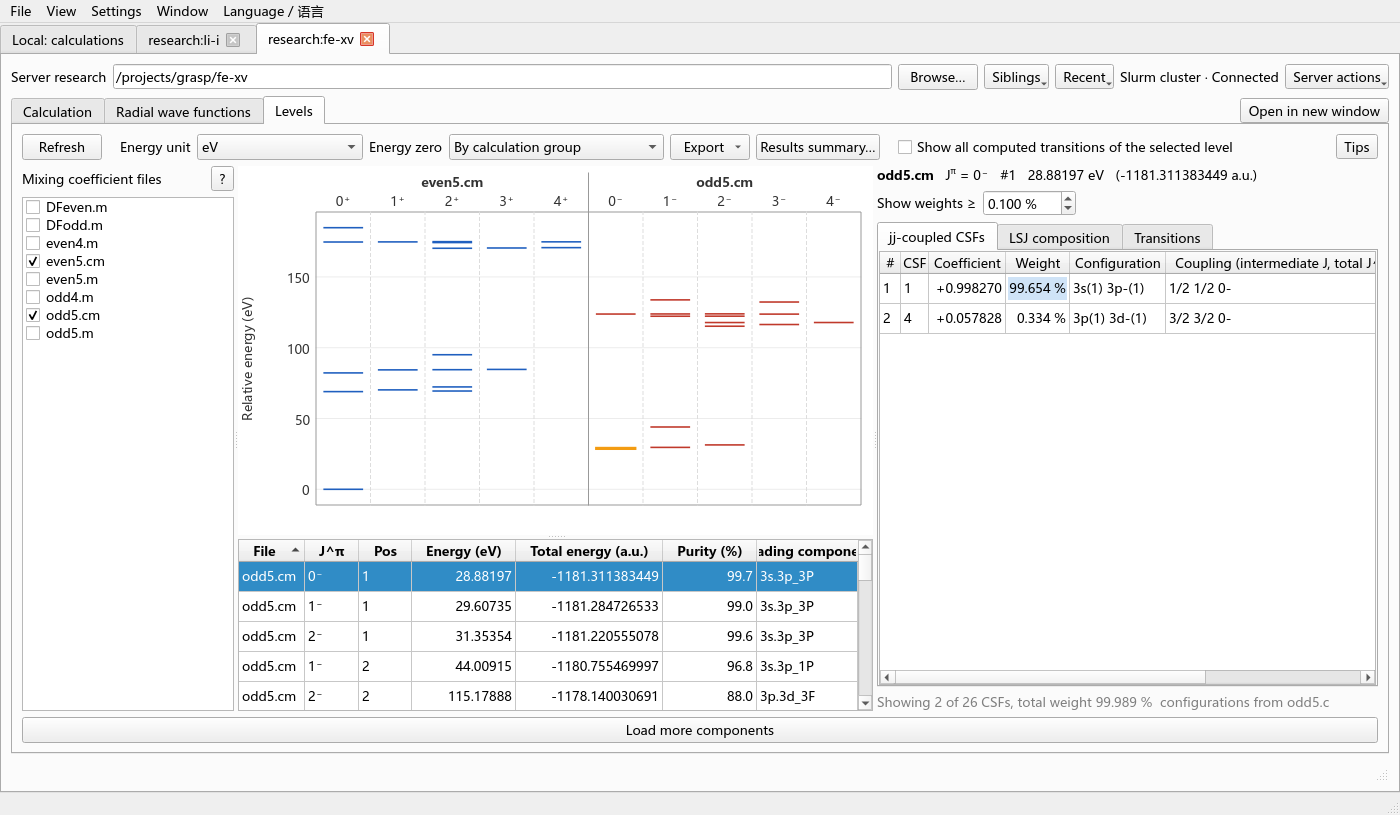
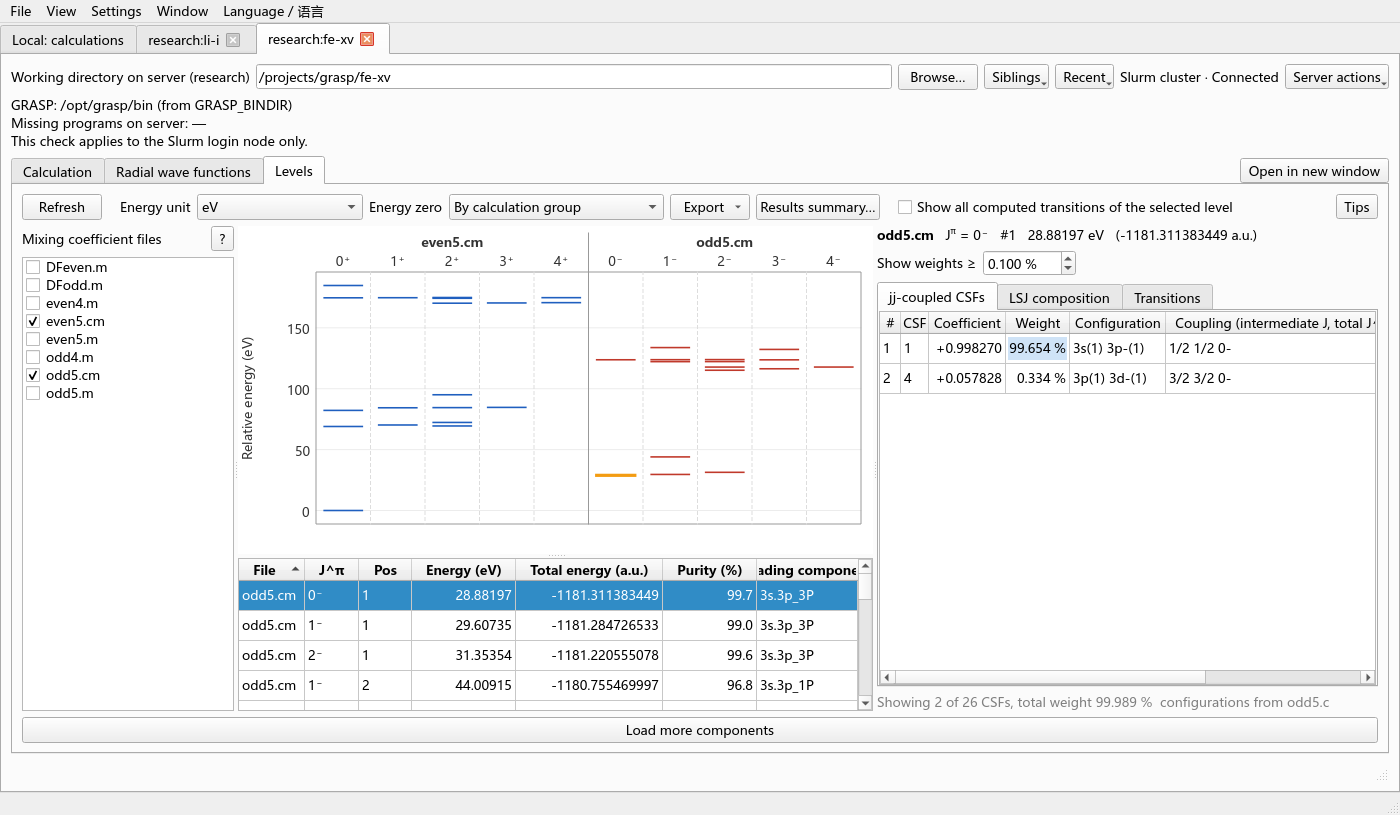
Align server working directory wording after rebase
- Reuse the protocol mutation set when cancelling old reads.
- Refresh bilingual screenshots and verify pending writes can finish.

diff --git a/remote_panel.py b/remote_panel.py
@@ -16,7 +16,7 @@ import grasp_config as config
 import grasp_install as install
 import grasp_core as core
 import grasp_mix as mix
-from grasp_remote import GRASP_CHECK
+from grasp_remote import GRASP_CHECK, MUTATIONS
 import grasp_ssh as ssh
 import grasp_summary as summary
 import grasp_trans as transitions
@@ -254,7 +254,7 @@ class BrowseServerDirectory(QDialog):
         layout.addWidget(self.status)
         row = QHBoxLayout()
         row.addStretch()
-        self.use = button("打开选定的工作目录", self.accept)
+        self.use = button("打开此工作目录", self.accept)
         row.addWidget(self.use)
         row.addWidget(button("取消", self.reject))
         layout.addLayout(row)
@@ -1642,7 +1642,6 @@ class RemoteViewer(QMainWindow):
 
 class RemoteWorkspace(QWidget):
     TABS = (("calc", "计算"), ("wfn", "径向波函数"), ("levels", "能级图"))
-    WRITE_REQUESTS = {"run", "stop", "clean_workdir", "clear_slurm_record", "create_workdir", "update_workdir"}
     push = Signal(object)
     draftChanged = Signal()
 
@@ -1723,7 +1722,7 @@ class RemoteWorkspace(QWidget):
                 callback(*values)
 
         request = self.source.submit(method, args, received, **options)
-        if pending and request is not None and method not in self.WRITE_REQUESTS:
+        if pending and request is not None and method not in MUTATIONS:
             self.read_requests.add(request)
         return request
 
@@ -1744,7 +1743,7 @@ class RemoteWorkspace(QWidget):
         self.label = T("服务器上的工作目录 {h}:{p}", h=self.client.host, p=self.directory)
         self.setWindowTitle(self.label)
         bar = QHBoxLayout()
-        name = QLabel(T("服务器 {h}", h=self.client.host))
+        name = QLabel(T("服务器上的工作目录（{h}）", h=self.client.host))
         name.setTextInteractionFlags(Qt.TextSelectableByMouse)
         bar.addWidget(name)
         self.build_directory_bar(bar)
@@ -1804,7 +1803,7 @@ class RemoteWorkspace(QWidget):
 
     def build_directory_bar(self, bar):
         self.directory_edit = QLineEdit(self.directory)
-        self.directory_edit.setAccessibleName(T("工作目录"))
+        self.directory_edit.setAccessibleName(T("服务器上的工作目录"))
         self.directory_edit.returnPressed.connect(lambda: self.request_directory(self.directory_edit.text()))
         self.browse_button = button("浏览…", self.browse_directory)
         self.siblings_button, self.recent_button = QToolButton(), QToolButton()
@@ -1898,7 +1897,7 @@ class RemoteWorkspace(QWidget):
             action.triggered.connect(lambda checked=False, directory=path: self.request_directory(directory))
         if paths:
             menu.addSeparator()
-        menu.addAction(T("清除此主机的最近目录")).triggered.connect(self.clear_recent)
+        menu.addAction(T("清除此主机最近的工作目录")).triggered.connect(self.clear_recent)
 
     def clear_recent(self):
         entries = [entry for entry in remote_recent_entries() if not self.recent_matches(entry[0], entry[2])]
@@ -2018,7 +2017,7 @@ class RemoteWorkspace(QWidget):
         creation = getattr(self.calc, "import_dialog", None)
         if not any(dialog.busy for dialog in self.transfer_dialogs) and not (creation and creation.busy):
             return True
-        prompt = (T("传输仍在进行，切换目录将取消传输。是否取消传输并切换？") if switching else
+        prompt = (T("切换工作目录将取消正在进行的传输。是否继续？") if switching else
                   T("传输仍在进行，关闭工作区将取消传输。是否取消并关闭？"))
         return QMessageBox.question(self, T("取消传输"), prompt,
                                     QMessageBox.Yes | QMessageBox.No, QMessageBox.No) == QMessageBox.Yes

diff --git a/tests/test_server_directory_switch.py b/tests/test_server_directory_switch.py
@@ -49,6 +49,8 @@ def test_typed_path_replaces_directory_in_place_and_cancels_old_reads(desk, qapp
     workspace.show_tab("wfn")
     viewer = workspace.open_view("levels")
     old_requests = dict(source.requests)
+    write_results = []
+    write_request = workspace.submit("update_workdir", dict(directory="/srv/a"), lambda *args: write_results.append(args))
     workspace.directory_edit.setText("bad")
     workspace.directory_edit.returnPressed.emit()
     method, args, received = source.pending.pop()
@@ -67,6 +69,9 @@ def test_typed_path_replaces_directory_in_place_and_cancels_old_reads(desk, qapp
     assert opened.source is source and source.parent() is opened and source.closes == source.reconnects == 0
     assert desk.workspaces.indexOf(opened) == 1 and desk.workspaces.indexOf(other) == 2
     assert workspace.closed and set(old_requests) <= source.cancelled and not viewer.isVisible()
+    assert write_request not in source.cancelled
+    source.respond("update_workdir", dict(revision="r2"), directory="/srv/a")
+    assert write_results == []
     for method, _, callback in old_requests.values():
         if method == "watch":
             callback(dict(text="old log", state=None), None)
@@ -83,6 +88,8 @@ def test_browser_siblings_recent_and_existing_tab(desk, monkeypatch):
     workspace = desk.open_remote_workspace(source, "/srv/a")
 
     def browse(dialog):
+        assert dialog.windowTitle() == "Browse working directory on server"
+        assert dialog.use.text() == "Open this working directory"
         source.respond("list_dir", listing("/srv/a"), directory="/srv/a")
         dialog.up.click()
         source.respond("list_dir", listing("/srv", "a", "b"), directory="/srv")
@@ -108,6 +115,7 @@ def test_browser_siblings_recent_and_existing_tab(desk, monkeypatch):
     existing = desk.open_remote_workspace(alias, "/srv/a")
     desk.workspaces.setCurrentWidget(current)
     current.load_recent()
+    assert current.recent_menu.actions()[-1].text() == "Clear recent working directories for this host"
     [item for item in current.recent_menu.actions() if item.text() == "/srv/a"][0].trigger()
     source.respond("list_dir", listing("/srv/a"), directory="/srv/a")
     assert desk.active_remote() is existing and not current.closed and current.directory_edit.text() == "/srv/c"

diff --git a/grasp_core.py b/grasp_core.py
@@ -1719,14 +1719,13 @@ No window is opened; from the sources, python3 grasp_config.py can be used inste
     "无法读取 {name} 的对称块：{error}": "Cannot read symmetry blocks from {name}: {error}",
     # 在服务器标签中切换工作目录
     "浏览服务器上的工作目录": "Browse working directory on server",
-    "打开选定的工作目录": "Open selected working directory",
     "同级": "Siblings",
-    "服务器 {h}": "Server {h}",
+    "服务器上的工作目录（{h}）": "Working directory on server ({h})",
     "读取中…": "Loading…",
     "只显示前 {n} 项": "Showing only the first {n} entries",
-    "清除此主机的最近目录": "Clear recent directories for this host",
-    "传输仍在进行，切换目录将取消传输。是否取消传输并切换？":
-        "Switching directories cancels the active transfer. Cancel the transfer and switch?",
+    "清除此主机最近的工作目录": "Clear recent working directories for this host",
+    "切换工作目录将取消正在进行的传输。是否继续？":
+        "Switching working directories cancels the active transfer. Continue?",
 }
 
 

diff --git a/docs/INTERFACE.md b/docs/INTERFACE.md
@@ -113,7 +113,7 @@ is missing, **Settings…** opens server run settings. Slurm reports describe th
 
 The main window has one permanent **Local** workspace followed by the server directories you open.
 Each server tab displays the full directory, server type and connection state above its three pages.
-Enter a path in the working directory bar, or choose **Browse…**, **Siblings**, or **Recent**. The tab keeps
+Enter a path in **Working directory on server**, or choose **Browse…**, **Siblings**, or **Recent**. The tab keeps
 its SSH session and current page. Switching uses the same draft and transfer prompts as closing a tab.
 An already open target is activated without changing the current directory of the original tab.
 [Directory bar (English)](images/en_server_directory_switch.png) / [目录栏](images/zh_server_directory_switch.png).
@@ -196,7 +196,8 @@ Old servers without `workdir_write_v1` show an update instruction and receive no
 连接对话框采用那个主机的设置，并显示生效的连接标识。
 主窗口保留一个不可关闭的本机工作区，已打开的服务器目录
 各占一个标签。服务器标签顶部显示完整路径、服务器类型和连接状态。SSH 别名解析到同一用户、主机和端口时，同一目录复用标签。
-在工作目录栏输入路径，或用“浏览…”、“同级”、“最近”切换目录。切换沿用连接并保留当前页，草稿和传输按关闭标签时的规则确认。
+在“服务器上的工作目录”栏输入路径，或用“浏览…”、“同级”、“最近”切换工作目录。切换沿用连接并保留当前页，
+草稿和传输按关闭标签时的规则确认。
 目标已经打开时激活对应标签，原标签仍在原目录。
 Ctrl+PgUp / Ctrl+PgDn 切换工作区，Ctrl+1–3 切换当前工作区的页面，Ctrl+4 在本机打开收敛页。服务器工作区激活时，
 本机目录、导入导出和参数菜单禁用。切换语言或字号会保留工作区、连接、读取和传输。启动时恢复本机页面，最近使用的服务器上的工作目录

diff --git a/docs/REMOTE.md b/docs/REMOTE.md
@@ -82,7 +82,7 @@ in either workspace, with Ctrl+4 for Convergence in the Local workspace. Languag
 open tabs, sessions and in-progress reads and transfers. To reconnect after restarting the application,
 choose a saved directory in the connection dialogue.
 
-Use the working directory bar inside a server tab to switch without opening another SSH session. Enter a path,
+Use the **Working directory on server** bar inside a server tab to switch without opening another SSH session. Enter a path,
 choose **Browse…**, open **Siblings** to list the parent directory, or open **Recent** for this host. The server
 resolves paths. If the target is already open, its tab becomes active. A switch keeps the selected page, closes
 the previous directory's extra viewers and cancels its pending reads. Active transfers require confirmation.
@@ -93,7 +93,7 @@ Drafts use the same Save, Keep or Discard choices as tab closure. A server calcu
 Ctrl+PgUp/PgDn 切换工作区，Ctrl+1–3 切换当前工作区页面，Ctrl+4 打开本机收敛页。切换语言或字号时保留标签、会话、
 进行中的读取和传输。重启应用后，可从连接对话框手动打开最近使用的服务器上的工作目录。
 
-服务器标签内的工作目录栏可以直接切换，沿用 SSH 会话。可以输入路径，点“浏览…”，从“同级”选择上一级的子目录，
+服务器标签内的“服务器上的工作目录”栏可以直接切换，沿用 SSH 会话。可以输入路径，点“浏览…”，从“同级”选择上一级的子目录，
 或从“最近”打开这台主机用过的目录。路径由服务器解析。目标已有标签时激活它。切换后保留当前页，关闭旧目录的独立
 查看器并取消未完成的读取。传输进行中须确认，草稿沿用关闭标签时的保存、保留或放弃选项。服务器上的计算继续运行。
 
